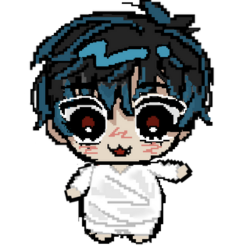
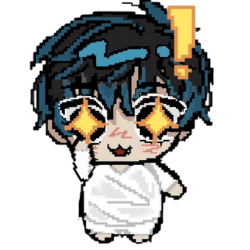
Finished first part tutorial animation...

diff --git a/src/Frame.java b/src/Frame.java
@@ -11,16 +11,16 @@ public class Frame extends JFrame{
     private JScrollPane scrollPane;
     private ButtonClass buttonClass;
     private CardLayout cardLayout;
-    private ImageAnimation desktopPet;
     private JPanelAnimation mailPanel;
     private Sponsors sponsors;
+    private SpacebarImageSwitcher switcher;
 
     public Frame() throws IOException {
+        System.out.println("[DEBUG] Created switcher: " + switcher);
         cardLayout = new CardLayout();
         mainPanel = new JPanel(cardLayout);
         buttonClass = new ButtonClass(this);
         sponsors = new Sponsors();
-        //desktopPet = new ImageAnimation();
         scrollPane = buttonClass.getScrollPane();
 
         //create card panels
@@ -54,40 +54,12 @@ public class Frame extends JFrame{
         ArrayList<BufferedImage> animationFrames3 = new ArrayList<>();
         BufferedImage img = ImageIO.read(new File("src/DesktopPetImages/Ivan/ivan11.png"));
         animationFrames3.add(img);
+        ArrayList<BufferedImage> animationFrames4 = new ArrayList<>();
+
 
         initailizeIvanImages(animationFrames,0,7);
         initailizeIvanImages(animationFrames2,7,11);
-
-//        for (int i = 0; i < 7; i++) {
-//            try {
-//                BufferedImage img = ImageIO.read(new File("src/DesktopPetImages/Ivan/ivan" + i + ".png"));
-//                animationFrames.add(img);
-//            } catch (IOException e) {
-//                System.out.println(e.getMessage());
-//            }
-//        }
-//
-//        for (int i = 7; i < 11; i++) {
-//            try {
-//                BufferedImage img = ImageIO.read(new File("src/DesktopPetImages/Ivan/ivan" + i + ".png"));
-//                animationFrames2.add(img);
-//            } catch (IOException e) {
-//                System.out.println(e.getMessage());
-//            }
-//        }
-
-//        ArrayList<BufferedImage> mailImages = new ArrayList<>();
-//        for (int i = 1; i < 15; i++) {
-//            try {
-//                String file = "src/MailImages/" + i + ".png";
-//                BufferedImage mailImg = ImageIO.read(new File(file));
-//                mailImages.add(mailImg);
-//            }
-//            catch (IOException exception) {
-//                System.out.println(exception.getMessage());
-//            }
-//        }
-
+        initailizeIvanImages(animationFrames4,12,14);
 
         JPanelAnimation startPanel = new JPanelAnimation(this, "StartScreen" ,startingImages, 300, 3);
         mainPanel.add(startPanel);
@@ -111,19 +83,40 @@ public class Frame extends JFrame{
                 "src/DesktopPetImages/Speech/speech2.png",
                 "src/DesktopPetImages/Speech/speech3.png"
         };*/
-        SpacebarImageSwitcher switcher = new SpacebarImageSwitcher(speechImages);
+        switcher = new SpacebarImageSwitcher(speechImages);
         switcher.setBounds(360, 200, 200, 100);
         tutorialScreen.add(switcher);
 
         switcher.setDialogueChangeListener(pressCount -> {
+            System.out.println("[DEBUG] DialogueChangeListener: pressCount = " + pressCount);
+
             if (pressCount == 1) {
                 animation.updateFrames(animationFrames2);
             }
 
-            if (pressCount > 5) {
-                switcher.setEnabled(false);
-                System.out.println("Max dialogue presses reached");
+            if (pressCount == 4) {
+                switcher.setSwitcherActive(false);
+                System.out.println("[DEBUG] Disabled switcher at pressCount == 5");
             }
+
+            if (pressCount >= 5) {
+                if (pressCount == 5) {
+                    animation.updateFrames(animationFrames3);
+                }
+                if (pressCount > 5) {
+                    animation.updateFrames(animationFrames4);
+                    System.out.println("[DEBUG] Disabled switcher at pressCount > 5");
+                    if (pressCount > 7) {
+                        showCard("Background");
+                    }
+                }
+            }
+        });
+
+
+        buttonClass.getBookBtn().addActionListener(e -> {
+            switcher.setSwitcherActive(true);  // or switcher.setEnabled(true); if you didn't rename
+            System.out.println("Book button clicked. Dialogue resumed.");
         });
 
 //        JPanelAnimation mailScreenAnimation = new JPanelAnimation(this, "MailScreen", mailImages, 100, 6);
@@ -194,7 +187,6 @@ public class Frame extends JFrame{
         return mainPanel;
     }
 
-    //switch through card panels ((used in ButtonPanel for ActionListeners)
     public void showCard(String cardName) {
         cardLayout.show(mainPanel, cardName);
     }

diff --git a/src/SpacebarImageSwitcher.java b/src/SpacebarImageSwitcher.java
@@ -10,7 +10,7 @@ public class SpacebarImageSwitcher extends JPanel {
     private int currentIndex;
     private int spacePressCount;
     private DialogueChangeListener dialogueChangeListener;
-    private boolean enabled;
+    private boolean isSwitcherActive;
 
     public interface DialogueChangeListener {
         void onSpacePressed(int pressCount);
@@ -28,7 +28,7 @@ public class SpacebarImageSwitcher extends JPanel {
 
         currentIndex = 0;
         spacePressCount = 0;
-        enabled = true;
+        isSwitcherActive = true;
         setupKeyBinding();
     }
 
@@ -41,12 +41,18 @@ public class SpacebarImageSwitcher extends JPanel {
         actionMap.put("nextImage", new AbstractAction() {
             @Override
             public void actionPerformed(ActionEvent e) {
-                if (!enabled) return;
+                System.out.println("[DEBUG] Space pressed. isSwitcherActive = " + isSwitcherActive);
+                if (!isSwitcherActive) {
+                    System.out.println("[DEBUG] Space ignored because switcher is disabled.");
+                    return;
+                }
 
                 currentIndex = (currentIndex + 1) % images.length;
                 repaint();
 
                 spacePressCount++;
+                System.out.println("[DEBUG] spacePressCount = " + spacePressCount);
+
                 if (dialogueChangeListener != null) {
                     dialogueChangeListener.onSpacePressed(spacePressCount);
                 }
@@ -58,17 +64,17 @@ public class SpacebarImageSwitcher extends JPanel {
         this.dialogueChangeListener = listener;
     }
 
-    public void updateImages(ArrayList<BufferedImage> newImages) {
-        images = new ImageIcon[newImages.size()];
-        for (int i = 0; i < newImages.size(); i++) {
-            images[i] = new ImageIcon(newImages.get(i));
-        }
-        currentIndex = 0;
-        repaint();
-    }
+//    public void updateImages(ArrayList<BufferedImage> newImages) {
+//        images = new ImageIcon[newImages.size()];
+//        for (int i = 0; i < newImages.size(); i++) {
+//            images[i] = new ImageIcon(newImages.get(i));
+//        }
+//        currentIndex = 0;
+//        repaint();
+//    }
 
-    public void setEnabled(boolean enable) {
-        this.enabled = enable;
+    public void setSwitcherActive(boolean active) {
+        this.isSwitcherActive = active;
     }
 
     @Override

diff --git a/src/ButtonClass.java b/src/ButtonClass.java
@@ -21,8 +21,6 @@ public class ButtonClass {
     private Livestream livestream;
     private Sponsors sponsors;
     private boolean livestreamExited;
-    private boolean next;
-    private boolean bookBtnPressed;
 
 
     public ButtonClass(Frame cardLayoutPanel)  {
@@ -32,7 +30,6 @@ public class ButtonClass {
         player = new Player();
         sponsors = new Sponsors();
         livestreamExited = false;
-        bookBtnPressed = false;
 
         //create buttons
         usernameText = new JTextField(15);
@@ -46,6 +43,7 @@ public class ButtonClass {
         mailApp = new JButton();
         bookBtn = new JButton();
         bookBtn.getInputMap(JComponent.WHEN_FOCUSED).put(KeyStroke.getKeyStroke("SPACE"), "none");
+        nextButton.getInputMap(JComponent.WHEN_FOCUSED).put(KeyStroke.getKeyStroke("SPACE"), "none");
         //testing
         homePage = new JButton();
         editApp = new JButton();
@@ -167,11 +165,11 @@ public class ButtonClass {
         nextButton.addActionListener(e -> {
             cardLayoutPanel.showCard("Background");
         });
-
-        bookBtn.addActionListener(e -> {
-            bookBtnPressed = true;
-        });
     }
+
+//    public void setContinueButtonListener(ActionListener listener) {
+//        bookBtn.addActionListener(listener);
+//    }
 
     private void customizeButton(JButton button) {
         button.setOpaque(false);
@@ -213,10 +211,6 @@ public class ButtonClass {
 
     public JScrollPane getScrollPane() {
         return scrollPane;
-    }
-
-    public boolean isBookBtnPressed() {
-        return bookBtnPressed;
     }
 
     public JButton getEditApp() {
